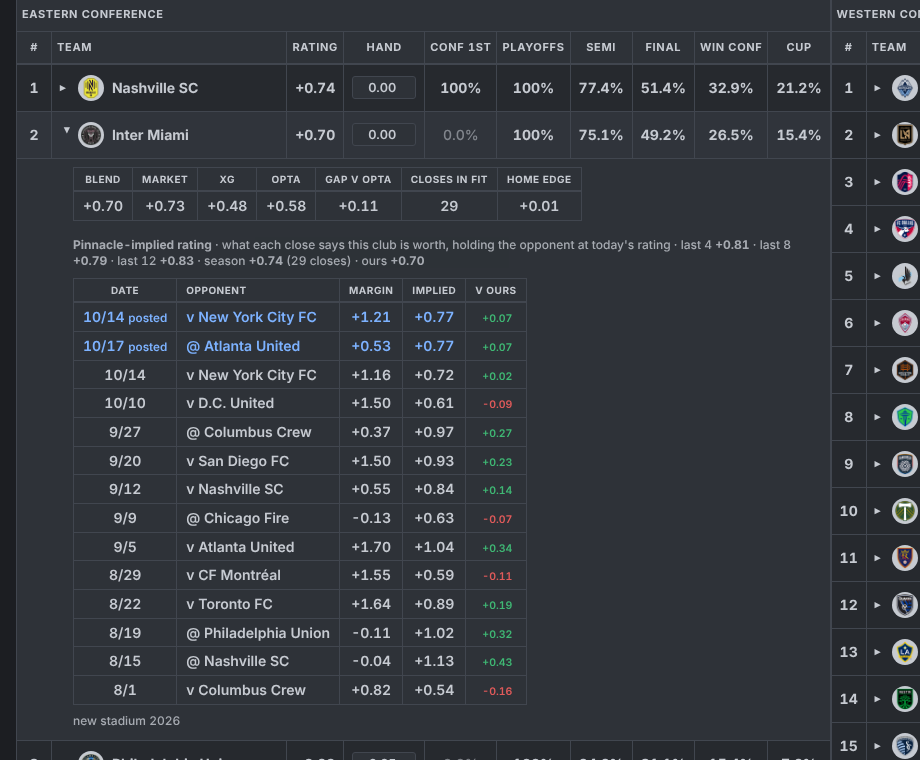
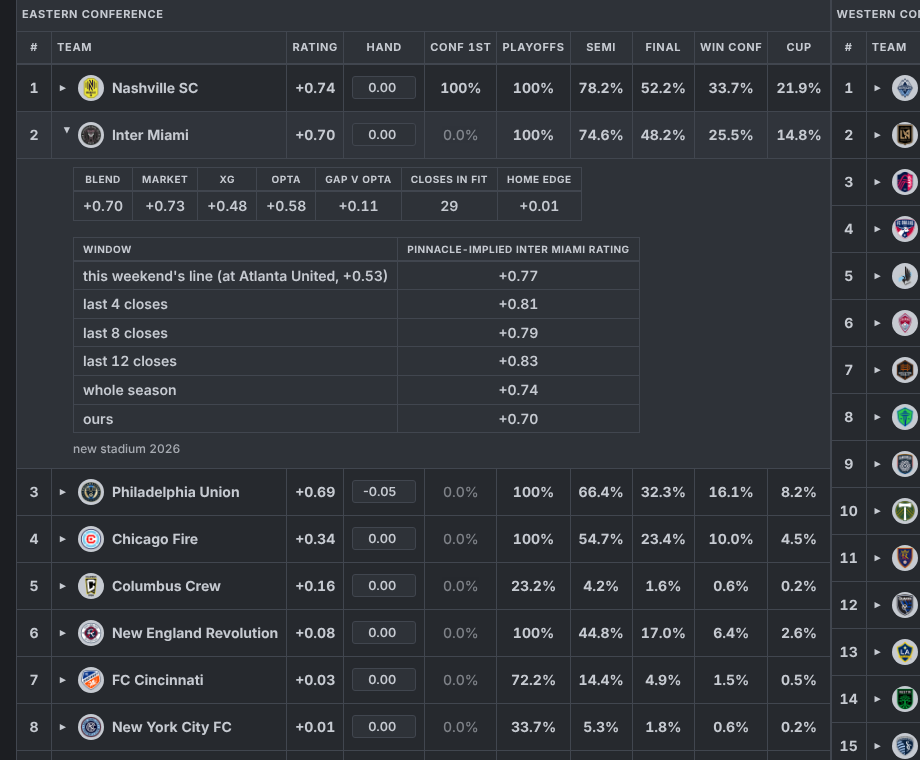
Ratings detail: compact Pinnacle-implied grid (window | implied rating) as Zac asked; routines branch handover requested (CLAUDE.md 9, 10); republished (v25)

diff --git a/outputs/latest/site.html b/outputs/latest/site.html
@@ -239,10 +239,10 @@ const handEdit={};teams.forEach(t=>handEdit[t.team]=+(t.hand||0));
 const blendRaw=t=>t.blend_raw!=null?+t.blend_raw:(+t.rating-(+t.hand||0));
 const effRating=t=>preview?preview.ratings[t.team]:blendRaw(t)+(handEdit[t.team]||0);
 const handDirty=()=>teams.some(t=>Math.abs((handEdit[t.team]||0)-(+t.hand||0))>1e-9);
-function impliedGrid(t){const im=t.implied;if(!im||!im.n)return '';const w=k=>im[k]==null?'–':sgn(im[k]);
- const rows=[...(im.posted||[]).map(r=>({...r,tag:'posted'})),...[...im.rows].reverse()];
- return `<div class="note" style="margin-top:8px"><b>Pinnacle-implied rating</b> · what each close says this club is worth, holding the opponent at today's rating · last 4 <b>${w('w4')}</b> · last 8 <b>${w('w8')}</b> · last 12 <b>${w('w12')}</b> · season <b>${w('season')}</b> (${im.n} closes) · ours <b>${sgn(effRating(t))}</b></div>
- <table class="mini"><thead><tr><th>Date</th><th class="l">Opponent</th><th title="Pinnacle's expected margin for this club's side, goals">Margin</th><th title="this club's rating implied by that line">Implied</th><th title="implied minus today's rating">v ours</th></tr></thead><tbody>${rows.map(r=>`<tr${r.tag?' style="color:var(--accent)"':''}><td>${md(r.date)}${r.tag?' <small>posted</small>':''}</td><td class="l">${r.ha} ${r.opp}</td><td>${sgn(r.ha==='v'?r.close:-r.close)}</td><td>${sgn(r.implied)}</td><td><span class="d ${r.implied-effRating(t)>0?'pos':'neg'}">${sgn(r.implied-effRating(t))}</span></td></tr>`).join('')}</tbody></table>`}
+function impliedGrid(t){const im=t.implied;if(!im||!im.n)return '';const w=k=>im[k]==null?'–':sgn(im[k]);const our=effRating(t);
+ const line=(label,v)=>`<tr><td class="l">${label}</td><td>${v==null?'–':sgn(v)}</td></tr>`;
+ const posted=(im.posted||[]).map(r=>line(`this weekend's line (${r.ha==='v'?'v':'at'} ${r.opp}, ${sgn(r.close)})`,r.implied)).join('');
+ return `<table class="mini" style="margin-top:8px;max-width:560px"><thead><tr><th class="l">window</th><th class="l" title="the rating each window of Pinnacle closes implies for this club, holding the opponent at today's rating">Pinnacle-implied ${t.team} rating</th></tr></thead><tbody>${posted}${line('last 4 closes',im.w4)}${line('last 8 closes',im.w8)}${line('last 12 closes',im.w12)}${line('whole season',im.season)}${line('ours',our)}</tbody></table>`}
 function renderRatings(){
  const op=D.header.opta;
  $('#rtSub').textContent='';

diff --git a/outputs/latest/site_local.html b/outputs/latest/site_local.html
@@ -239,10 +239,10 @@ const handEdit={};teams.forEach(t=>handEdit[t.team]=+(t.hand||0));
 const blendRaw=t=>t.blend_raw!=null?+t.blend_raw:(+t.rating-(+t.hand||0));
 const effRating=t=>preview?preview.ratings[t.team]:blendRaw(t)+(handEdit[t.team]||0);
 const handDirty=()=>teams.some(t=>Math.abs((handEdit[t.team]||0)-(+t.hand||0))>1e-9);
-function impliedGrid(t){const im=t.implied;if(!im||!im.n)return '';const w=k=>im[k]==null?'–':sgn(im[k]);
- const rows=[...(im.posted||[]).map(r=>({...r,tag:'posted'})),...[...im.rows].reverse()];
- return `<div class="note" style="margin-top:8px"><b>Pinnacle-implied rating</b> · what each close says this club is worth, holding the opponent at today's rating · last 4 <b>${w('w4')}</b> · last 8 <b>${w('w8')}</b> · last 12 <b>${w('w12')}</b> · season <b>${w('season')}</b> (${im.n} closes) · ours <b>${sgn(effRating(t))}</b></div>
- <table class="mini"><thead><tr><th>Date</th><th class="l">Opponent</th><th title="Pinnacle's expected margin for this club's side, goals">Margin</th><th title="this club's rating implied by that line">Implied</th><th title="implied minus today's rating">v ours</th></tr></thead><tbody>${rows.map(r=>`<tr${r.tag?' style="color:var(--accent)"':''}><td>${md(r.date)}${r.tag?' <small>posted</small>':''}</td><td class="l">${r.ha} ${r.opp}</td><td>${sgn(r.ha==='v'?r.close:-r.close)}</td><td>${sgn(r.implied)}</td><td><span class="d ${r.implied-effRating(t)>0?'pos':'neg'}">${sgn(r.implied-effRating(t))}</span></td></tr>`).join('')}</tbody></table>`}
+function impliedGrid(t){const im=t.implied;if(!im||!im.n)return '';const w=k=>im[k]==null?'–':sgn(im[k]);const our=effRating(t);
+ const line=(label,v)=>`<tr><td class="l">${label}</td><td>${v==null?'–':sgn(v)}</td></tr>`;
+ const posted=(im.posted||[]).map(r=>line(`this weekend's line (${r.ha==='v'?'v':'at'} ${r.opp}, ${sgn(r.close)})`,r.implied)).join('');
+ return `<table class="mini" style="margin-top:8px;max-width:560px"><thead><tr><th class="l">window</th><th class="l" title="the rating each window of Pinnacle closes implies for this club, holding the opponent at today's rating">Pinnacle-implied ${t.team} rating</th></tr></thead><tbody>${posted}${line('last 4 closes',im.w4)}${line('last 8 closes',im.w8)}${line('last 12 closes',im.w12)}${line('whole season',im.season)}${line('ours',our)}</tbody></table>`}
 function renderRatings(){
  const op=D.header.opta;
  $('#rtSub').textContent='';

diff --git a/site/index.html b/site/index.html
@@ -239,10 +239,10 @@ const handEdit={};teams.forEach(t=>handEdit[t.team]=+(t.hand||0));
 const blendRaw=t=>t.blend_raw!=null?+t.blend_raw:(+t.rating-(+t.hand||0));
 const effRating=t=>preview?preview.ratings[t.team]:blendRaw(t)+(handEdit[t.team]||0);
 const handDirty=()=>teams.some(t=>Math.abs((handEdit[t.team]||0)-(+t.hand||0))>1e-9);
-function impliedGrid(t){const im=t.implied;if(!im||!im.n)return '';const w=k=>im[k]==null?'–':sgn(im[k]);
- const rows=[...(im.posted||[]).map(r=>({...r,tag:'posted'})),...[...im.rows].reverse()];
- return `<div class="note" style="margin-top:8px"><b>Pinnacle-implied rating</b> · what each close says this club is worth, holding the opponent at today's rating · last 4 <b>${w('w4')}</b> · last 8 <b>${w('w8')}</b> · last 12 <b>${w('w12')}</b> · season <b>${w('season')}</b> (${im.n} closes) · ours <b>${sgn(effRating(t))}</b></div>
- <table class="mini"><thead><tr><th>Date</th><th class="l">Opponent</th><th title="Pinnacle's expected margin for this club's side, goals">Margin</th><th title="this club's rating implied by that line">Implied</th><th title="implied minus today's rating">v ours</th></tr></thead><tbody>${rows.map(r=>`<tr${r.tag?' style="color:var(--accent)"':''}><td>${md(r.date)}${r.tag?' <small>posted</small>':''}</td><td class="l">${r.ha} ${r.opp}</td><td>${sgn(r.ha==='v'?r.close:-r.close)}</td><td>${sgn(r.implied)}</td><td><span class="d ${r.implied-effRating(t)>0?'pos':'neg'}">${sgn(r.implied-effRating(t))}</span></td></tr>`).join('')}</tbody></table>`}
+function impliedGrid(t){const im=t.implied;if(!im||!im.n)return '';const w=k=>im[k]==null?'–':sgn(im[k]);const our=effRating(t);
+ const line=(label,v)=>`<tr><td class="l">${label}</td><td>${v==null?'–':sgn(v)}</td></tr>`;
+ const posted=(im.posted||[]).map(r=>line(`this weekend's line (${r.ha==='v'?'v':'at'} ${r.opp}, ${sgn(r.close)})`,r.implied)).join('');
+ return `<table class="mini" style="margin-top:8px;max-width:560px"><thead><tr><th class="l">window</th><th class="l" title="the rating each window of Pinnacle closes implies for this club, holding the opponent at today's rating">Pinnacle-implied ${t.team} rating</th></tr></thead><tbody>${posted}${line('last 4 closes',im.w4)}${line('last 8 closes',im.w8)}${line('last 12 closes',im.w12)}${line('whole season',im.season)}${line('ours',our)}</tbody></table>`}
 function renderRatings(){
  const op=D.header.opta;
  $('#rtSub').textContent='';

diff --git a/CLAUDE.md b/CLAUDE.md
@@ -251,7 +251,13 @@ Market-only by season (2012-2023): 0.247, 0.272, 0.259, 0.289, 0.345, 0.367, 0.4
 | MLS close capture Wed Oct 14 7:20 PM ET | trig_01AWKP5ZxVw52K2sB28tVoYx | once 2026-10-14 23:20Z | fetch_pinnacle.py --close, commit, push |
 Capture Routines are one-shot, named "MLS close capture <date> <time ET>", created by the 8:52 routine from
 `scripts/close_schedule.py --json` (ten minutes before each distinct kickoff). CLV log and forecast check run inside every run.
-Status: none has fired yet (Phase 4 acceptance pending). The 8:52 routine republishes to the URL in section 10.
+Status 2026-10-15 night: the close captures WORK (the three Oct 14 slots fired and committed "Pinnacle closes: Wed Oct 14 ... slot"; seven
+more armed for Oct 17, 18 and 21) and the 7:40 debrief fires daily. **Branch split**: the routines run in their own session
+(session_01Lyt4NSGCEM6d6K5u8BMXg7) and push to claude/tender-knuth-7t40rv, while the model lives on claude/gallant-heisenberg-o7xbg9 (the
+other session merges ours into claude/awesome-edison-nr0r68). The Optic daily pull brings the same Pinnacle closes onto our branch a day
+later (clv). On Zac's "Do 1" a message was sent to the routines' session asking it to switch all three routines (and the armed captures)
+to claude/gallant-heisenberg-o7xbg9 and to export settings/pending's hand edits; routine prompts can only be edited from that session,
+so confirm in the next morning report that it took. The 8:52 routine republishes to the URL in section 10.
 
 ## 10. Website
 `site/index.html` template (since 2026-10-15 night the Prem Futures design from the other session's branch claude/awesome-edison-nr0r68, commit 5231f94, taken on Zac's word "use the updated website": same tabs, data and ids; six tabs, American odds, ET, crests; a web-worker port of
@@ -271,9 +277,9 @@ turns each saved club into one open-ended row (0 removes the row) and sets `adju
 a fake pending file. The routine's prompt could not be widened from this session (a routine's instructions change only from its own
 conversation), hence the merge into `settings/pending`. Caveat: the page worker still lacks the dock, Dixon-Coles, tiebreakers and team
 totals, so Preview deltas are approximate; the ranking by rating is exact.
-**Pinnacle-implied rating grid** (2026-10-15 night, Zac): clicking a club on the Ratings tab opens, under its sources, the rating each of this
-season's Pinnacle closes implies for it (opponent held at today's rating), the last 4 / 8 / 12 / season means, the current round's posted
-line(s) in blue, and each reading's gap to our rating. **Other books as display-only fallback** on the Games tab: for a fixture Pinnacle has
+**Pinnacle-implied rating grid** (2026-10-15 night, Zac): clicking a club on the Ratings tab opens, under its sources, a two-column grid
+(window | Pinnacle-implied rating): this weekend's posted line (home-side margin shown), last 4, last 8, last 12 closes, whole season, ours;
+opponent held at today's rating. The per-game readings stay in site_data.json (`implied.rows`) but are not shown (Zac wanted the grid alone). **Other books as display-only fallback** on the Games tab: for a fixture Pinnacle has
 not lined, the latest ps3838 > betfair > bet365 > draftkings > fanduel line from the OpticOdds daily pull is shown dimmed and labelled with
 the book; never in the ratings or the sim (Pinnacle stays the only line source). Measured 2026-10-15: no book posts MLS beyond the current
 round (every book lines the same 15 fixtures), so the fallback fills nothing today. Optic key re-supplied by Zac the same night and stored
